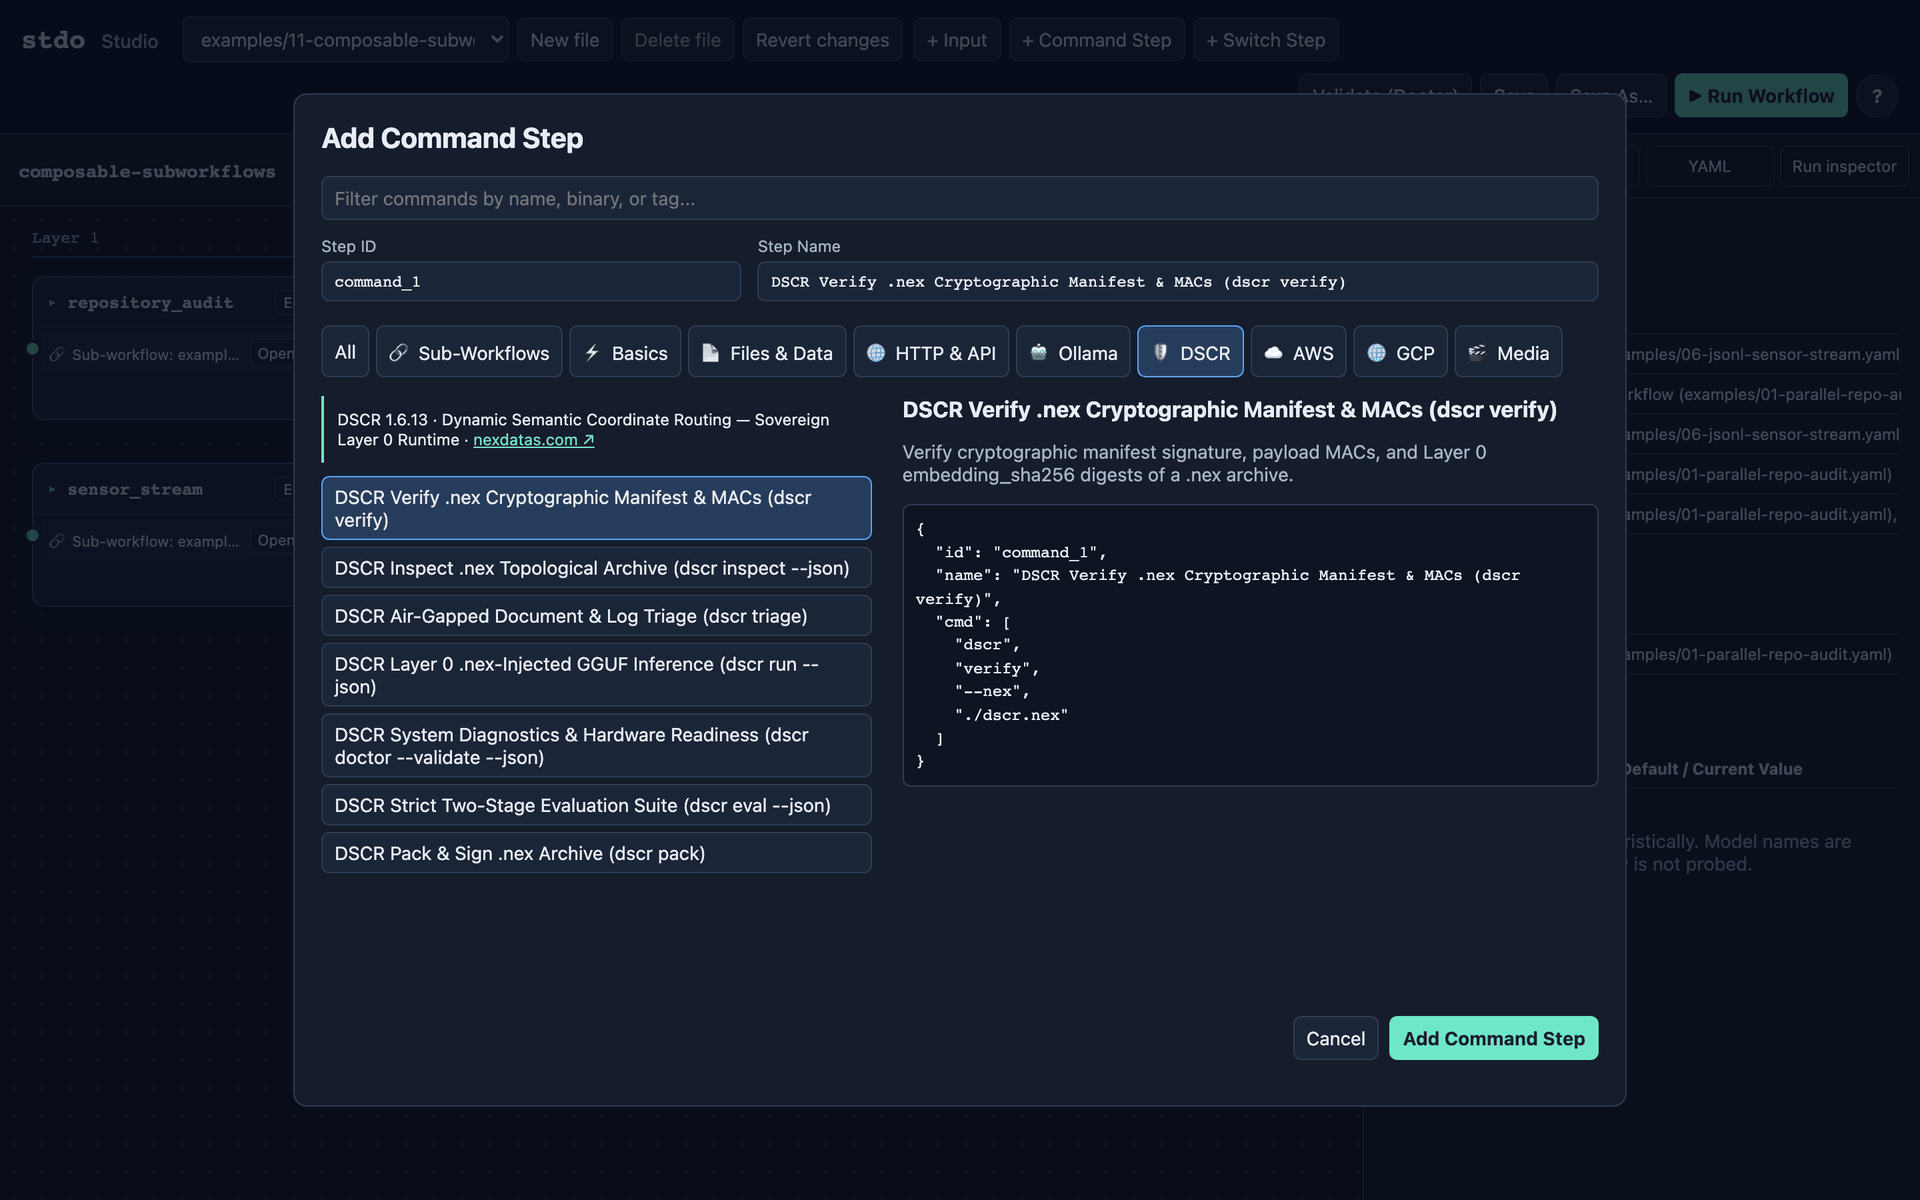
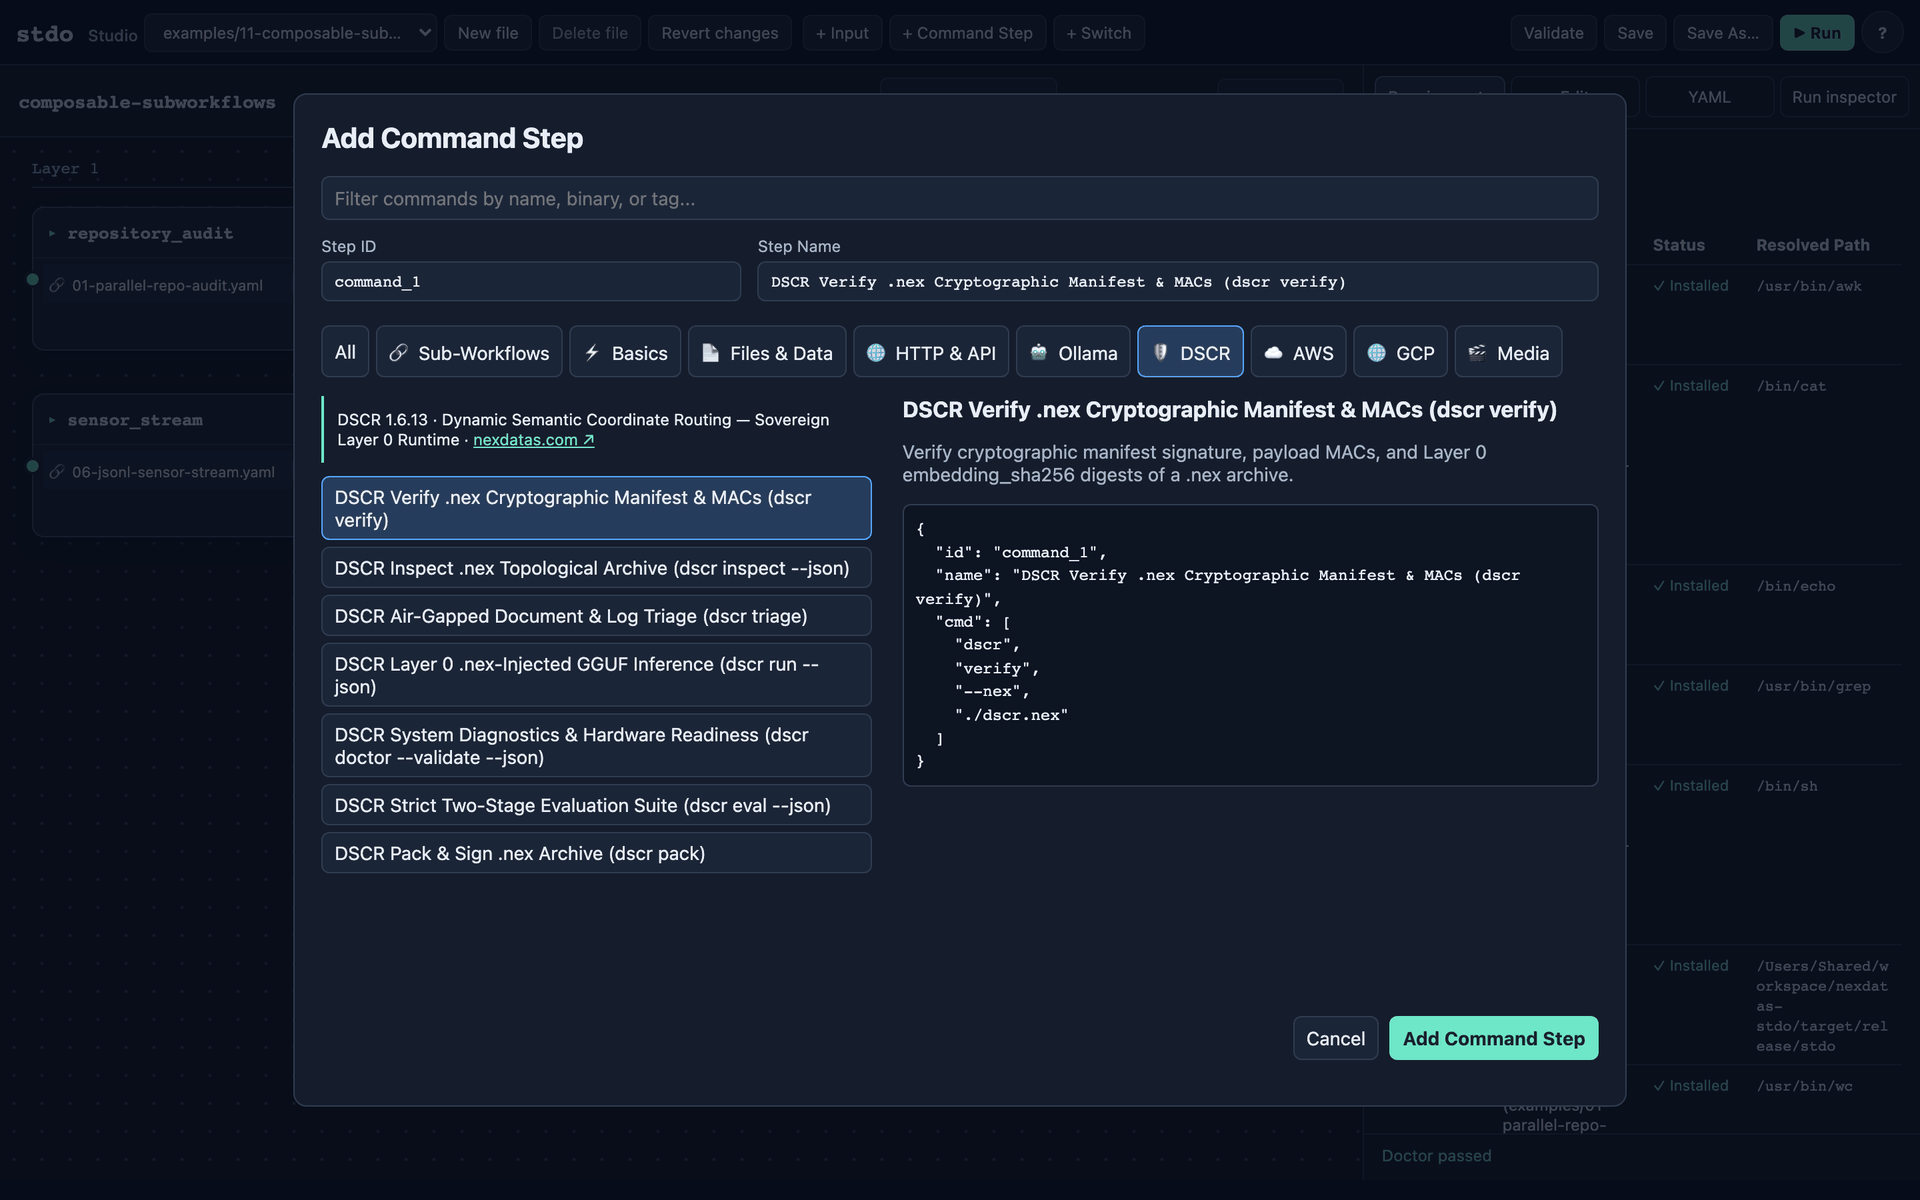
fix(studio,readme): keep Studio toolbar on one row, fit Requirements table, and drop completed Roadmap (#35)

diff --git a/src/studio/studio.html b/src/studio/studio.html
@@ -7,9 +7,18 @@
 <style>
 :root{color-scheme:dark;--canvas:#111827;--panel:#151d2c;--bar:#0d1422;--line:#303c51;--text:#e8edf6;--muted:#a8b5ca;--pipe:#6ee7c8;--template:#c1adff;--branch:#f4c079;--error:#ff9c9c;--mono:ui-monospace,SFMono-Regular,Consolas,monospace;font:14px system-ui,sans-serif}
 *{box-sizing:border-box}body{margin:0;background:var(--bar);color:var(--text)}button,input,select,textarea{font:inherit;color:inherit}button,select,input,textarea{background:#1a2538;border:1px solid var(--line);border-radius:6px;padding:7px 9px}button,select{cursor:pointer}button:hover{border-color:var(--muted)}button:disabled{opacity:.5;cursor:wait}:focus-visible{outline:2px solid var(--pipe);outline-offset:2px}.primary{background:var(--pipe);color:#10251f;border-color:var(--pipe);font-weight:700}.danger{color:var(--error)}.quiet{color:var(--muted)}
-#toolbar{display:flex;align-items:center;flex-wrap:wrap;gap:8px;padding:12px 16px;border-bottom:1px solid var(--line)}.brand{font:700 20px var(--mono);margin-right:10px}.brand span{color:var(--muted);font:500 14px system-ui}.toolbar-group{display:flex;flex-wrap:wrap;align-items:center;gap:6px}.toolbar-group:last-child{margin-left:auto}#files{max-width:245px}
+#toolbar{display:flex;align-items:center;flex-wrap:wrap;gap:8px;padding:8px 12px;border-bottom:1px solid var(--line)}
+.brand{font:700 18px var(--mono);white-space:nowrap}.brand span{color:var(--muted);font:500 12px system-ui}
+.toolbar-group{display:flex;flex-wrap:wrap;align-items:center;gap:5px}.toolbar-group:last-child{margin-left:auto}
+#toolbar button,#files{font-size:12px;padding:5px 9px;white-space:nowrap}
+#files{width:220px;max-width:220px;min-width:100px;text-overflow:ellipsis}
+@media(min-width:1280px){
+  #toolbar,.toolbar-group{flex-wrap:nowrap}
+  .toolbar-group:first-child{min-width:0}
+  #toolbar button,.brand{flex:none}
+}
 main{display:grid;grid-template-columns:minmax(0,1fr) minmax(320px,29vw);height:calc(100dvh - 64px);min-height:440px}#workspace{min-width:0;display:flex;flex-direction:column;min-height:0}.canvas-bar{display:flex;align-items:center;justify-content:space-between;gap:8px;flex-wrap:wrap;padding:9px 14px;border-bottom:1px solid var(--line);background:var(--panel)}.canvas-bar strong{font-family:var(--mono)}.legend{display:flex;gap:10px;color:var(--muted);font-size:12px}.legend i{display:inline-block;width:10px;height:3px;margin-right:4px;vertical-align:middle;background:var(--edge)}.pipe{--edge:var(--pipe)}.template{--edge:var(--template)}.branch{--edge:var(--branch)}#viewport{flex:1;overflow:auto;background:radial-gradient(circle,#34435d 1px,transparent 1.4px) 0 0/21px 21px,var(--canvas)}
-#stage{position:relative;min-width:100%;min-height:100%}#edges-layer,#nodes-layer,#layers{position:absolute;inset:0;width:100%;height:100%}#nodes-layer,#layers,#edges-layer{pointer-events:none}.layer-label{position:absolute;color:var(--muted);font:12px var(--mono);width:228px;padding-bottom:7px;border-bottom:1px solid #3c4d68}.edge{fill:none;stroke:var(--edge);stroke-width:2;opacity:.85}.edge-hit{fill:none;stroke:transparent;stroke-width:15;pointer-events:stroke;cursor:pointer}.edge-hit:hover+.edge,.edge-hit:focus+.edge{stroke:var(--error);stroke-width:3;opacity:1}.wire-preview{fill:none;stroke:var(--text);stroke-dasharray:4 5;stroke-width:2}.node{position:absolute;width:228px;height:108px;pointer-events:auto;background:#192437;border:1px solid #465775;border-radius:9px;box-shadow:0 6px 12px #060a1455}.node.selected{outline:2px solid var(--template);outline-offset:3px}.node[data-result=passed]{border-color:var(--pipe)}.node[data-result=failed]{border-color:var(--error)}.node[data-result=skipped]{opacity:.64}.node[data-result=cached]{border-color:var(--template)}.node header{cursor:grab;touch-action:none;display:flex;gap:8px;align-items:center;padding:9px 11px;border-bottom:1px solid var(--line)}.node header:active{cursor:grabbing}.node header button{margin-left:auto;padding:2px 6px;font-size:11px}.node header strong{overflow:hidden;text-overflow:ellipsis;white-space:nowrap;font:600 13px var(--mono)}.node .kind{font:11px var(--mono);color:var(--pipe)}.node.switch .kind{color:var(--branch)}.node .summary,.node .badge{display:block;margin:8px 11px;overflow:hidden;white-space:nowrap;text-overflow:ellipsis;font:12px var(--mono);color:var(--muted)}.node .badge{color:var(--text);font-size:11px}.port{position:absolute;top:47px;width:13px;height:13px;padding:0;border:2px solid #182235;background:var(--pipe);border-radius:50%;cursor:crosshair}.port.in{left:-7px}.port.out{right:-7px}.port:hover{background:#fff}.port.armed{outline:2px solid var(--text)}
+#stage{position:relative;min-width:100%;min-height:100%}#edges-layer,#nodes-layer,#layers{position:absolute;inset:0;width:100%;height:100%}#nodes-layer,#layers,#edges-layer{pointer-events:none}.layer-label{position:absolute;color:var(--muted);font:12px var(--mono);width:260px;padding-bottom:7px;border-bottom:1px solid #3c4d68}.edge{fill:none;stroke:var(--edge);stroke-width:2;opacity:.85}.edge-hit{fill:none;stroke:transparent;stroke-width:15;pointer-events:stroke;cursor:pointer}.edge-hit:hover+.edge,.edge-hit:focus+.edge{stroke:var(--error);stroke-width:3;opacity:1}.wire-preview{fill:none;stroke:var(--text);stroke-dasharray:4 5;stroke-width:2}.node{position:absolute;width:260px;height:108px;pointer-events:auto;background:#192437;border:1px solid #465775;border-radius:9px;box-shadow:0 6px 12px #060a1455}.node.selected{outline:2px solid var(--template);outline-offset:3px}.node[data-result=passed]{border-color:var(--pipe)}.node[data-result=failed]{border-color:var(--error)}.node[data-result=skipped]{opacity:.64}.node[data-result=cached]{border-color:var(--template)}.node header{cursor:grab;touch-action:none;display:flex;gap:8px;align-items:center;padding:9px 11px;border-bottom:1px solid var(--line)}.node header:active{cursor:grabbing}.node header button{margin-left:auto;padding:2px 6px;font-size:11px}.node header strong{overflow:hidden;text-overflow:ellipsis;white-space:nowrap;font:600 13px var(--mono)}.node .kind{font:11px var(--mono);color:var(--pipe)}.node.switch .kind{color:var(--branch)}.node .summary,.node .badge{display:block;margin:8px 11px;overflow:hidden;white-space:nowrap;text-overflow:ellipsis;font:12px var(--mono);color:var(--muted)}.node .badge{color:var(--text);font-size:11px}.port{position:absolute;top:47px;width:13px;height:13px;padding:0;border:2px solid #182235;background:var(--pipe);border-radius:50%;cursor:crosshair}.port.in{left:-7px}.port.out{right:-7px}.port:hover{background:#fff}.port.armed{outline:2px solid var(--text)}
 #yaml-panel{display:flex;flex-direction:column;min-height:0;background:var(--panel);border-left:1px solid var(--line)}.tabs{display:flex;gap:4px;padding:8px;border-bottom:1px solid var(--line)}.tabs button{flex:1;background:transparent}.tabs [aria-selected=true]{background:#29354a;border-color:#546485}.pane{padding:14px;overflow:auto;flex:1}.pane[hidden]{display:none}.pane h2{font-size:15px;margin:0 0 12px}.pane h3{font-size:13px;margin:16px 0 8px}.field{display:grid;gap:4px;margin:0 0 10px;color:var(--muted);font-size:12px}.field input,.field select,.field textarea{width:100%;color:var(--text);font:12px var(--mono)}.field input[type=checkbox]{width:auto;justify-self:start}.field textarea{min-height:65px;resize:vertical}.input-card{border-top:1px solid var(--line);padding-top:11px;margin-top:12px}.input-card button{font-size:12px}#yaml{display:block;width:100%;height:calc(100% - 56px);min-height:230px;resize:vertical;font:12px/1.5 var(--mono);tab-size:2}pre{white-space:pre-wrap;overflow-wrap:anywhere;font:12px/1.45 var(--mono);background:var(--bar);padding:9px;border:1px solid var(--line);border-radius:6px}#notice{min-height:35px;padding:8px 13px;border-top:1px solid var(--line);font-size:12px;color:var(--muted);overflow-wrap:anywhere}#notice[data-tone=error]{color:var(--error)}#notice[data-tone=success]{color:var(--pipe)}
 @media(max-width:820px){main{height:auto;grid-template-columns:1fr}#workspace{height:60dvh}#yaml-panel{min-height:400px;border-left:0;border-top:1px solid var(--line)}#toolbar .toolbar-group:last-child{margin-left:0}.legend{display:none}}
 .node[data-result=running]{border-color:#73aaff;animation:running-pulse 1.5s ease-in-out infinite}
@@ -56,13 +65,13 @@ main{display:grid;grid-template-columns:minmax(0,1fr) minmax(320px,29vw);height:
 .command-raw textarea{min-height:9em;resize:vertical}
 .command-raw textarea[aria-invalid=true]{border-color:var(--error)}
 .command-raw p{margin:5px 0;color:var(--error);font-size:12px}
-#help{width:32px;height:32px;min-width:32px;border-radius:50%;padding:0;display:inline-flex;align-items:center;justify-content:center;font-weight:700}
-.requirements-table{width:100%;border-collapse:collapse;font-size:12px;margin-bottom:16px}
-.requirements-table th,.requirements-table td{padding:7px 5px;text-align:left;vertical-align:top;border-bottom:1px solid var(--line);white-space:nowrap;word-break:normal;overflow-wrap:normal}
+#toolbar #help{width:32px;height:32px;min-width:32px;border-radius:50%;padding:0;display:inline-flex;align-items:center;justify-content:center;font-weight:700}
+.requirements-table{width:100%;table-layout:fixed;border-collapse:collapse;font-size:12px;margin-bottom:16px}
+.requirements-table th,.requirements-table td{padding:7px 4px;text-align:left;vertical-align:top;border-bottom:1px solid var(--line);overflow-wrap:anywhere}
 .requirements-table code{font:11px var(--mono);white-space:inherit;overflow-wrap:inherit}
-.requirements-table td:last-child{white-space:normal;overflow-wrap:anywhere;min-width:160px}
+.requirements-table[aria-label="CLI Binaries"] th:first-child{width:22%}
+.requirements-table[aria-label="CLI Binaries"] th:nth-child(3){width:20%}
 .requirements-table td:last-child code{white-space:pre-wrap}
-.requirements-scroll{overflow-x:auto}
 .requirement-status{white-space:nowrap;font-size:11px}.requirement-status[data-ok=true]{color:var(--pipe)}.requirement-status[data-ok=false]{color:var(--error)}
 .tabs button{padding:7px 4px;font-size:12px;min-width:0}
 #studio-dialog{width:min(660px,94vw);max-height:85dvh;overflow:auto;background:var(--panel);color:var(--text);border:1px solid var(--line);border-radius:10px;padding:20px}
@@ -98,21 +107,21 @@ main{display:grid;grid-template-columns:minmax(0,1fr) minmax(320px,29vw);height:
   .catalog-layout{grid-template-columns:1fr;grid-template-rows:minmax(0,1fr) minmax(0,1fr)}
   .catalog-metadata,.catalog-inputs{grid-template-columns:1fr}
 }
-.node .subworkflow-badge{margin:4px 7px;padding:4px 5px}.node .subworkflow-badge span{min-width:0;overflow:hidden;text-overflow:ellipsis;white-space:nowrap}
+.node .subworkflow-badge{margin:4px 7px;padding:4px 5px}.node .subworkflow-badge span{min-width:0;overflow-wrap:anywhere}
 </style>
 </head>
 <body>
 <header id="toolbar">
-  <div class="brand">stdo <span>Studio</span></div>
   <div class="toolbar-group">
+    <div class="brand">stdo <span>Studio</span></div>
     <select id="files" aria-label="Workflow file"></select>
     <button id="new-file">New file</button><button id="delete-file" class="danger">Delete file</button><button id="revert">Revert changes</button>
   </div>
   <div class="toolbar-group">
-    <button id="add-input">+ Input</button><button id="add-command">+ Command Step</button><button id="add-switch">+ Switch Step</button>
+    <button id="add-input">+ Input</button><button id="add-command">+ Command Step</button><button id="add-switch">+ Switch</button>
   </div>
   <div class="toolbar-group">
-    <button id="validate">Validate (Doctor)</button><button id="save">Save</button><button id="save-as">Save As…</button><button id="run" class="primary">▶ Run Workflow</button><button id="help" title="Help" aria-label="Help">?</button>
+    <button id="validate">Validate</button><button id="save">Save</button><button id="save-as">Save As…</button><button id="run" class="primary">▶ Run</button><button id="help" title="Help" aria-label="Help">?</button>
   </div>
 </header>
 <main>
@@ -164,8 +173,8 @@ const state = {
 const STEP_ID = /^[A-Za-z_][A-Za-z0-9_]*$/;
 const STEP_REFERENCE = /steps\.([A-Za-z_][A-Za-z0-9_]*)\./g;
 const TEMPLATE_EXPRESSION = /\{\{[\s\S]*?\}\}/g;
-const NODE_WIDTH = 228;
-const COLUMN = 292;
+const NODE_WIDTH = 260;
+const COLUMN = 324;
 const ROW = 140;
 
 function element(tag, text, className) {
@@ -1092,7 +1101,9 @@ function subworkflowBadge(step) {
   const path = subworkflowPath(step);
   if (!path) return null;
   const group = element('div',undefined,'subworkflow-badge');
-  const label = element('span','🔗 Sub-workflow: '+path); label.title=label.textContent;
+  const filename = path.split('/').pop();
+  const label = element('span', '🔗 ' + filename);
+  label.title = 'Sub-workflow: ' + path;
   group.append(label,button('Open ↗',() => switchFile(path)));
   return group;
 }
@@ -1356,7 +1367,6 @@ function renderRequirements(data) {
   if (data.error) panel.append(element('p',data.error,'catalog-error'));
   function table(title,headers,rows) {
     panel.append(element('h3',title));
-    const scroll = element('div',undefined,'requirements-scroll');
     const grid = element('table',undefined,'requirements-table');
     grid.setAttribute('aria-label',title);
     const head = element('thead');
@@ -1378,8 +1388,7 @@ function renderRequirements(data) {
       body.append(row);
     }
     grid.append(head,body);
-    scroll.append(grid);
-    panel.append(scroll);
+    panel.append(grid);
   }
   table('CLI Binaries',['Executable','Source','Status','Resolved Path'],data.binaries.map(binary => {
     const badge = element('span',binary.installed ? '✓ Installed' : '✗ Missing','requirement-status');

diff --git a/README.md b/README.md
@@ -11,14 +11,11 @@ A compact, zero-network Rust binary that orchestrates local CLI tools (`curl`, `
 [![Network: 100% Offline](https://img.shields.io/badge/network-zero_outbound_calls-success.svg)](#architecture--core-concepts)
 [![Rust](https://img.shields.io/badge/edition-2021-orange.svg)](https://github.com/adiktiv-technologies/stdo/blob/main/Cargo.toml)
 
-[**Quickstart**](#quickstart) • [**What is a Unix DAG?**](#what-is-a-unix-dag) • [**Embedded Studio (`stdo serve`)**](#embedded-studio-stdo-serve) • [**Roadmap**](#roadmap)
+[**Quickstart**](#quickstart) • [**What is a Unix DAG?**](#what-is-a-unix-dag) • [**Embedded Studio (`stdo serve`)**](#embedded-studio-stdo-serve) • [**Gallery**](examples/README.md)
 
 </div>
 
 ![stdo Studio showing two sub-workflows, their combined report step, and the Requirements inspector](https://raw.githubusercontent.com/adiktiv-technologies/stdo/main/assets/studio-overview-subworkflows.png)
-
-> [!NOTE]
-> Phases 1 through 5 are complete. See the Crates.io badge above for the current version and the [changelog](CHANGELOG.md) for release details.
 
 ## Why `stdo`?
 
@@ -316,46 +313,11 @@ Open [Studio](http://127.0.0.1:8080) in your browser. With no file argument, Stu
 
 - Drag nodes to arrange them. Connect output and input ports to add pipe, template, or switch links. Click an edge to remove it.
 - **+ Command Step** opens a searchable catalog of 40 presets across Basics, Files & Data, HTTP & API, Ollama, DSCR, AWS, GCP, Media, and Sub-Workflows. Select a saved child workflow and configure its input overrides visually. Presets are editable starting points; external tools, credentials, models, and capsules must be installed or configured separately. External network access is performed by those tools, not by the orchestrator.
-- Direct `stdo run -f child.yaml` commands receive a **🔗 Sub-workflow** badge and **Open ↗** link. Doctor and Requirements recursively inspect child workflows, merge CLI/model requirements, and reject YAML call cycles. File paths use the process working directory; keep referenced YAML files inside the workspace. Static validation is bounded to 16 nested files and 64 calls and cannot expand shell wrappers or arguments generated from runtime step outputs.
+- Direct `stdo run -f child.yaml` commands receive a **🔗 filename** badge and **Open ↗** link. Doctor and Requirements recursively inspect child workflows, merge CLI/model requirements, and reject YAML call cycles. File paths use the process working directory; keep referenced YAML files inside the workspace. Static validation is bounded to 16 nested files and 64 calls and cannot expand shell wrappers or arguments generated from runtime step outputs.
 - The inspector has four tabs: **Requirements** lists executable availability, local model hints, and workflow inputs; **Edit** configures inputs and steps; **YAML** edits the same draft as text; **Run inspector** shows live output and telemetry.
-- **Validate (Doctor)** checks the draft. **Save** validates and atomically updates the current file; **Save As…** chooses a new workspace path.
-- Use **Run Workflow** to execute the draft with optional input overrides and cache bypass. Studio streams node states and a bounded stdout preview over SSE, then shows workflow output, timings, cache hits, and the PID ledger on failure. Inline `<audio>` and `<video>` artifact players let you listen to WAV output and watch MP4 output, with download links alongside them.
+- **Validate** checks the draft. **Save** validates and atomically updates the current file; **Save As…** chooses a new workspace path.
+- Use **▶ Run** to execute the draft with optional input overrides and cache bypass. Studio streams node states and a bounded stdout preview over SSE, then shows workflow output, timings, cache hits, and the PID ledger on failure. Inline `<audio>` and `<video>` artifact players let you listen to WAV output and watch MP4 output, with download links alongside them.
 - Studio reloads external file edits when the draft is clean and flags conflicts when you have unsaved changes.
-
-## Roadmap
-
-### Phase 1 — Foundation (`v0.0.x` → `v0.1.0`)
-
-- [x] Crate reservation & baseline CLI (`stdo`).
-- [x] Topological DAG parser (`stdo.yaml`), cycle detector, and `stdo doctor` binary verifier.
-- [x] Buffered `minijinja` stdin templates and monitored `pipe_from` transfers.
-- [x] Parallel execution within each topological layer via `tokio::process`.
-- [x] Self-contained POSIX workflow gallery in `examples/` (fan-out, `pipe_from`, JSON switch routing).
-
-### Phase 2 — Caching & Embedded Studio (`v0.2.0`)
-
-- [x] SHA-256 Content-Addressable Storage (CAS) for command steps in `.stdo/cache/`.
-- [x] `stdo serve` loopback HTTP server with a single embedded HTML/CSS/JS editor and SVG canvas.
-- [x] Workflow file editing, validation, execution, and per-step telemetry in Studio.
-
-### Phase 3 — Industrial Benchmarking & Streaming (`v0.3.0`)
-
-- [x] Live Studio output streaming over server-sent events (SSE) and workflow file reload.
-- [x] `stdo bench` A/B/C comparisons with latency percentiles, TTFB, cache hit ratios, and peak monitored buffer usage.
-- [x] Continuous JSONL line-by-line validation and routing for sensor and log pipelines.
-- [x] Offline HTML/JSON execution audits and benchmark reports.
-
-### Phase 4 — Concurrent Streaming & Production Resilience (`v0.4.0`)
-
-- [x] True concurrent producer-consumer streaming across `pipe_from` chains with overlapping upstream execution and downstream TTFB.
-- [x] Step-level `timeout_ms`, retry with backoff, and hermetic cache dependencies (`cache_files` / `cache_env`).
-
-### Phase 5 — Unbounded Streaming, Atomic Pipes & Qualification (`v0.5.0`)
-
-- [x] Bounded-memory pass-through for arbitrarily long stdout streams.
-- [x] Atomic pipe gating and Unix process-group cleanup.
-- [x] SHA-256 executable content hashing for cache invalidation.
-- [x] Adversarial stream tests and a reproducible [benchmark suite](benchmarks/README.md).
 
 ## License
 
